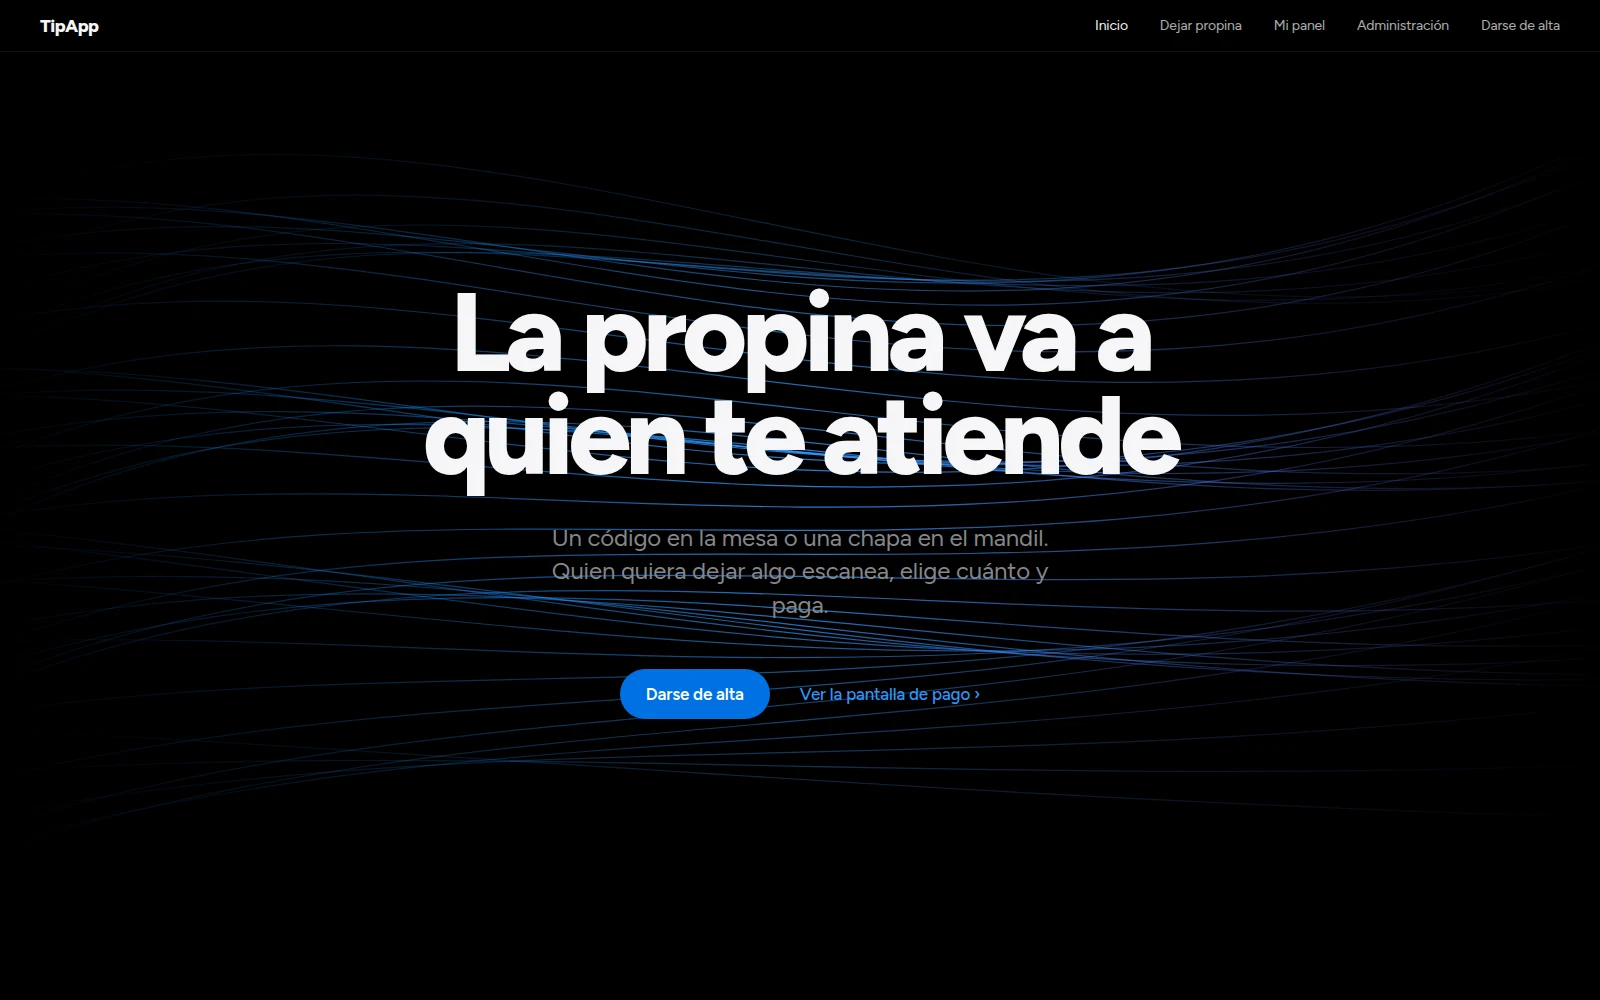
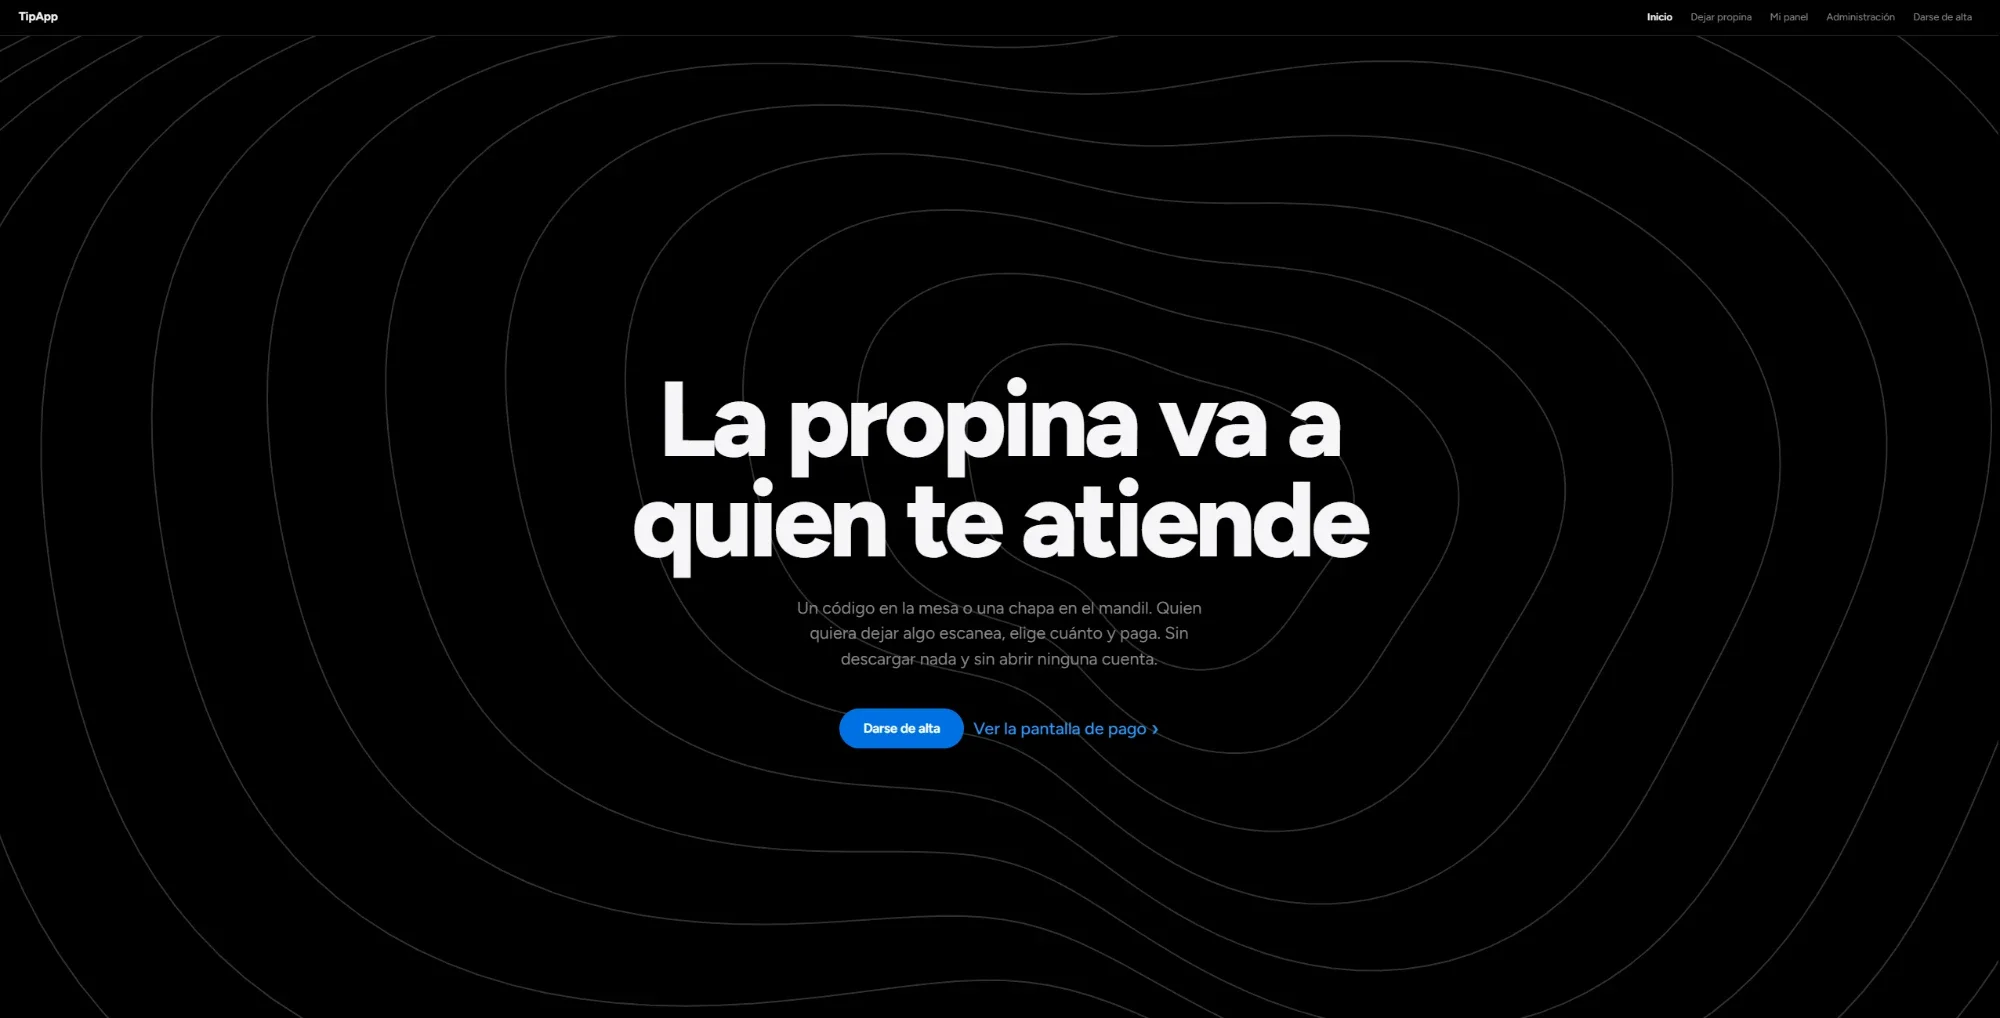
Full-size social posts, real TipApp landing, YouTube Shorts, wider flowing About
- Replace the four low-res post placeholders and the TipApp landing capture with the originals
- The A4 summer Bible study poster keeps its own proportions in the rail
- Video section: four Flag Fiesta Shorts as vertical cards that load YouTube on click
- Chapters that flow (short windows, reduced motion) get a wider measure; About sets
  the copy beside the map on wide screens

Claude-Session: https://claude.ai/code/session_01TpmQ8Sao3peU6VZpERr5eU

diff --git a/src/content.js b/src/content.js
@@ -12,9 +12,7 @@
 //   colors:  { base, deep, glow } for the panel. words: three big words. tags: three callouts.
 //   link:    { label, href } shown as a button and in the project sheet.
 //
-// SOCIAL — the social media rail. Replace the low-res placeholders in src/assets/design/
-// (post-videojuegos, post-aniversario, post-bautismos, post-estudio-verano) with the full-size
-// exports under the same name and nothing else needs to change.
+// SOCIAL — the social media rail, images in src/assets/design/. `ratio` overrides the default 16:9 card.
 //
 // VIDEOS — YouTube IDs (the part after watch?v=) from the channel. Each one becomes a card
 // that loads the player only when clicked.
@@ -279,13 +277,18 @@ export const SOCIAL = [
   { id: 'aniversario', src: img('post-aniversario'), title: T('5th anniversary', '5º aniversario'), note: T('Torn-paper photo band, script and gold', 'Foto en papel rasgado, caligrafía y dorado'), color: '#c9a45c' },
   { id: 'videojuegos', src: img('post-videojuegos'), title: T('Video game night', 'Noche de videojuegos'), note: T('Pixel-art type for ages 9 to 15', 'Tipografía pixel art para 9 a 15 años'), color: '#7b3fe4' },
   { id: 'bautismos', src: img('post-bautismos'), title: T('Baptism Sunday', 'Domingo de bautismos'), note: T('Script over open water', 'Caligrafía sobre el mar'), color: '#2f8fb0' },
-  { id: 'verano', src: img('post-estudio-verano'), title: T('Combined Bible study', 'Estudio bíblico combinado'), note: T('Bilingual summer schedule', 'Horario de verano bilingüe'), color: '#7a6be0' },
+  { id: 'verano', ratio: '1587 / 1123', src: img('post-estudio-verano'), title: T('Combined Bible study', 'Estudio bíblico combinado'), note: T('Bilingual summer schedule', 'Horario de verano bilingüe'), color: '#7a6be0' },
 ];
 
 export const VIDEO = {
   channel: 'https://www.youtube.com/@FlagFiestaGame',
-  // Add YouTube video IDs here, e.g. { id: 'dQw4w9WgXcQ', title: T('Trailer', 'Tráiler') }
-  youtube: [],
+  // YouTube Shorts from the channel: the ID is the part after /shorts/. Each card loads YouTube only when clicked.
+  youtube: [
+    { id: 'vchzq_PEbFw', title: T('Flag Fiesta · Short 1', 'Flag Fiesta · Short 1') },
+    { id: 'zc_CBRlsoTg', title: T('Flag Fiesta · Short 2', 'Flag Fiesta · Short 2') },
+    { id: 'uRi2bknQWWI', title: T('Flag Fiesta · Short 3', 'Flag Fiesta · Short 3') },
+    { id: 'P3aVWynpTPU', title: T('Flag Fiesta · Short 4', 'Flag Fiesta · Short 4') },
+  ],
 };
 
 // Hero: the display and the phone each rotate through work, offset so only one changes at a time.

diff --git a/src/design.css b/src/design.css
@@ -308,3 +308,21 @@
 @media (max-width: 1100px) {
   :is(.story[data-mode='flow'], .story[data-mode='still']) :is(.st-exp, .st-reviews) { grid-template-columns: 1fr; }
 }
+.rail-track { align-items: flex-start; }
+
+/* flowing chapters (phones, short windows, reduced motion): give single-column copy a readable measure */
+:is(.story[data-mode='flow'], .story[data-mode='still'], html:not(.js) .story) .ch-copy:not(.wide) { max-width: calc(760px + 2 * var(--pad)); }
+@media (min-width: 1100px) {
+  /* about: the copy and the map side by side instead of a narrow column with the map below */
+  :is(.story[data-mode='flow'], .story[data-mode='still']) .ch-about { flex-direction: row !important; align-items: center; gap: 2vw; padding-inline: var(--pad); }
+  :is(.story[data-mode='flow'], .story[data-mode='still']) .ch-about .ch-copy { flex: 1 1 52%; max-width: 780px; padding-inline: 0; }
+  :is(.story[data-mode='flow'], .story[data-mode='still']) .ch-about .art { flex: 1 1 48%; order: 2; margin: 0; opacity: 1; aspect-ratio: 2 / 1; }
+}
+
+/* YouTube Shorts: vertical cards, four across */
+.yt-grid.shorts { grid-template-columns: repeat(4, minmax(0, 1fr)); margin-top: clamp(16px, 2vw, 24px); }
+.shorts .yt-frame { aspect-ratio: 9 / 16; border-radius: 24px; background: radial-gradient(80% 60% at 50% 40%, #2a3c5c, #0b1828); }
+.shorts .yt-cover img { object-fit: cover; }
+.yt figcaption a { color: #f5f5f7; }
+.yt figcaption a:hover { text-decoration: underline; text-underline-offset: 3px; }
+@media (max-width: 760px) { .yt-grid.shorts { grid-template-columns: repeat(2, minmax(0, 1fr)); gap: 12px; } }

diff --git a/src/components/Video.jsx b/src/components/Video.jsx
@@ -15,12 +15,12 @@ function YouTubeCard({ v, label }) {
           <iframe src={`https://www.youtube-nocookie.com/embed/${v.id}?autoplay=1&rel=0`} title={v.title} allow="autoplay; encrypted-media; picture-in-picture; fullscreen" allowFullScreen />
         ) : (
           <button className="yt-cover" onClick={() => setOn(true)} aria-label={`${label}: ${v.title}`}>
-            <img src={`https://i.ytimg.com/vi/${v.id}/hqdefault.jpg`} alt="" loading="lazy" decoding="async" />
+            <img src={`https://i.ytimg.com/vi/${v.id}/hqdefault.jpg`} alt="" loading="lazy" decoding="async" onError={(e) => { e.currentTarget.style.visibility = 'hidden'; }} />
             <span className="yt-play" aria-hidden="true" />
           </button>
         )}
       </div>
-      <figcaption>{v.title}</figcaption>
+      <figcaption><a href={`https://www.youtube.com/shorts/${v.id}`} target="_blank" rel="noopener">{v.title} ↗</a></figcaption>
     </figure>
   );
 }
@@ -72,7 +72,7 @@ export default function Video() {
         </div>
 
         {VIDEO.youtube.length > 0 && (
-          <div className="yt-grid">
+          <div className="yt-grid shorts">
             {VIDEO.youtube.map((v) => <YouTubeCard key={v.id} v={v} label={UI.video.play} />)}
           </div>
         )}

diff --git a/src/components/Social.jsx b/src/components/Social.jsx
@@ -40,7 +40,7 @@ export default function Social() {
           {SOCIAL.map((s, i) => (
             <li key={s.id} className="post reveal" style={{ '--c': s.color }}>
               <figure>
-                <div className="post-img"><img src={s.src} alt={`${s.title}: ${s.note}`} loading="lazy" decoding="async" draggable="false" /></div>
+                <div className="post-img" style={s.ratio ? { aspectRatio: s.ratio } : undefined}><img src={s.src} alt={`${s.title}: ${s.note}`} loading="lazy" decoding="async" draggable="false" /></div>
                 <figcaption>
                   <span className="post-n">{String(i + 1).padStart(2, '0')}</span>
                   <strong>{s.title}</strong>

diff --git a/README.md b/README.md
@@ -23,19 +23,18 @@ their cues from the TipApp prototype; the web scene borrows the Ryan Family site
    `split` / `stack` (the game scenes). Clicking opens the gallery (`ProjectSheet.jsx`).
 3. **Social** (`Social.jsx`): a draggable rail of posts (`SOCIAL`).
 4. **Titan** (`Titan.jsx`): "Design / Diseño" from edge to edge with three pieces floating in front.
-5. **Video** (`Video.jsx`): the Flag Fiesta reel and the YouTube channel. Add video IDs to `VIDEO.youtube`
+5. **Video** (`Video.jsx`): the Flag Fiesta launch film (`public/video/`) and the YouTube channel. Add video IDs to `VIDEO.youtube`
    and each becomes a card that loads YouTube only when clicked.
-6. **Story** (`Story.jsx`): pinned chapters — the four services, experience, reviews, about, contact.
+6. **Story** (`Story.jsx`): pinned chapters — experience, reviews, about, contact.
 
 ## Edit content
 
 Everything a visitor reads is in `src/content.js`. Bilingual strings are written `T('English', 'Español')`.
 Images live in `src/assets/design/` (design work) and `src/assets/shots/` (game screenshots).
 
-**To replace a placeholder image**, export the full-size piece and save it over the file with the same name.
-These four were cropped from a screenshot of the old site and are low resolution:
-`post-videojuegos.webp`, `post-aniversario.webp`, `post-bautismos.webp`, `post-estudio-verano.webp`.
-The TipApp images (`tipapp-*.webp`) are captures of reconstructed screens; real screenshots can replace them.
+**To replace an image**, export the new version and save it over the file with the same name.
+Apart from `tipapp-landing.webp`, the TipApp images (`tipapp-*.webp`) are captures of reconstructed screens;
+real screenshots can replace them the same way.
 
 ## Languages
 
